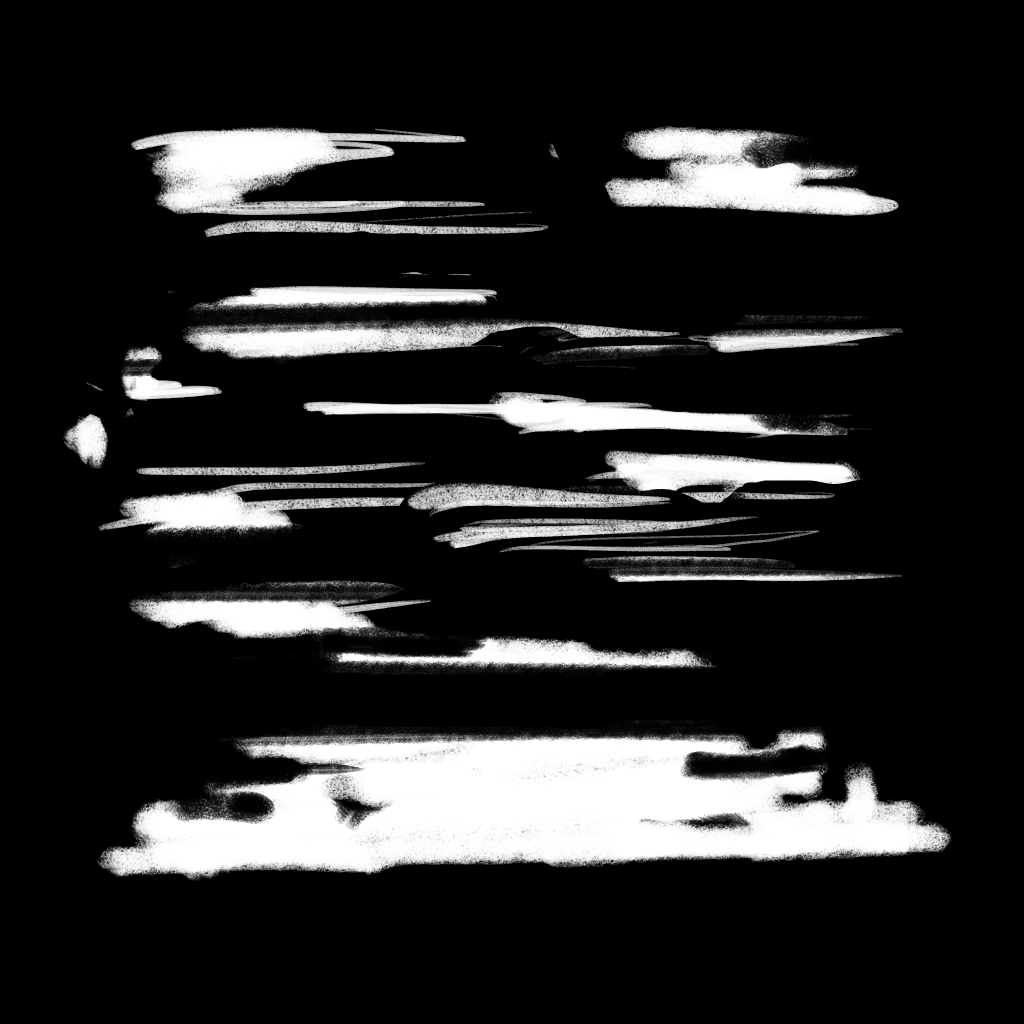
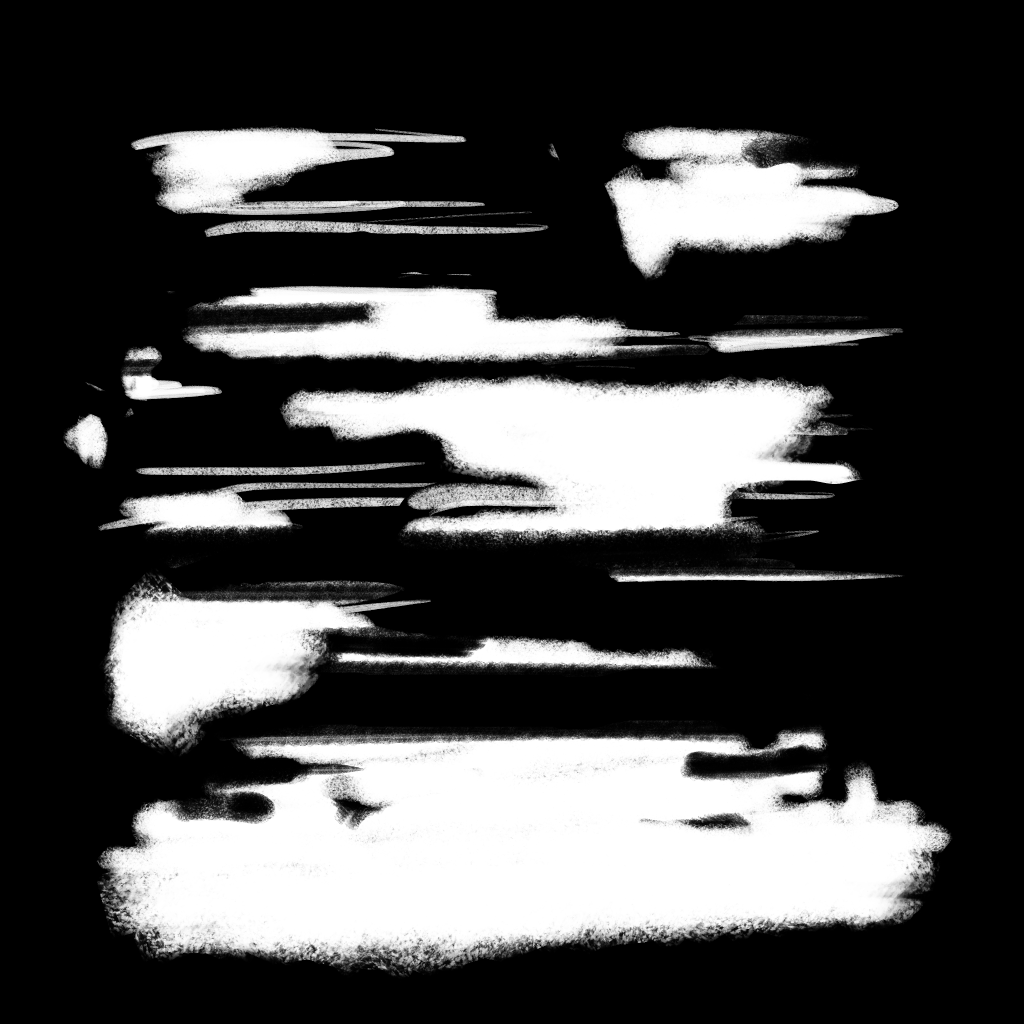
feat: update shader to draw points better

diff --git a/src/brush/shaders.ts b/src/brush/shaders.ts
@@ -76,7 +76,6 @@ precision highp float;
 
 // Brush parameters
 uniform float size;
-uniform float opacity;
 uniform float flow;
 uniform vec3 color;
 uniform float mask_width;
@@ -95,63 +94,31 @@ out vec4 fragColor;
 #include "mixbox.glsl"
 
 void main(void) {
-    float radius = size/2.0;
+    float radius = size*0.5;
     vec2 localUV = v_brushTexCoord;
     
     // calculate alpha mask
     float maskAlpha = texture(mask_texture, localUV).r;
-    if (maskAlpha < 0.01) discard;
-    maskAlpha = flow*maskAlpha;
+    if (maskAlpha < .8) discard;
 
     vec4 layerData = texture(layer_stroke_texture,vec2(gl_FragCoord.xy)/vec2(layer_width,layer_height)).rgba;
     
-    float alphaA = maskAlpha;
-    float alphaB = layerData.a;
+    vec3 colorA = color;
+    vec3 colorB = layerData.rgb;
+    
+    vec3 fullStrengthRGB = vec3(0.0);
+    if (mix_mode == MIXMODE_MIXBOX) {
+        // Use MIXBOX for rich color mixing
+        fullStrengthRGB = mixbox_lerp(colorB, colorA, flow);
+    } else {
+        // Use RGB mixing
+        fullStrengthRGB = mix(colorB, colorA, flow);
+    }
+    
     
     // For the alpha output, still use the normal alpha blending
     float fullOpacityAlpha = mix(layerData.a, 1.0, maskAlpha);
-    
-    // First, calculate the full-strength color using MIXBOX (or RGB) without any opacity limitation
-    mixbox_latent latA = mixbox_rgb_to_latent(color); // Use the original color for rich MIXBOX mixing
-    mixbox_latent latB = mixbox_rgb_to_latent(layerData.rgb);
-    float denom = (alphaA + alphaB * (1.0 - alphaA));
-    vec3 fullStrengthRGB = vec3(0.0);
-    
-    if(denom > 0.0) {
-        if (mix_mode == MIXMODE_MIXBOX) {
-            // Use MIXBOX for rich color mixing
-            fullStrengthRGB = mixbox_latent_to_rgb((latB * alphaB * (1.0 - alphaA) + alphaA * latA) / denom);
-        } else {
-            // Use RGB mixing
-            fullStrengthRGB = (layerData.rgb * alphaB * (1.0 - alphaA) + alphaA * color) / denom;
-        }
-    }
-    
-    // Now apply opacity as a cap by blending between the canvas color and the full-strength color
-    // For darker colors like black, this ensures they can only reach the opacity-defined darkness
-    float whiteValue = 1.0 - opacity; // Minimum lightness value based on opacity
-    
-    // Get the perceived brightness of the mixed color (average of RGB components)
-    float brightness = (fullStrengthRGB.r + fullStrengthRGB.g + fullStrengthRGB.b) / 3.0;
-    
-    // Calculate how much we need to lighten the color to respect the opacity cap
-    float targetBrightness = max(brightness, whiteValue);
-    float lightenAmount = targetBrightness - brightness;
-    
-    // Apply the lightening while preserving the color's hue
-    vec3 cappedRGB;
-    if (lightenAmount > 0.0) {
-        // Lighten the color while preserving its hue
-        cappedRGB = mix(fullStrengthRGB, vec3(1.0), lightenAmount);
-    } else {
-        cappedRGB = fullStrengthRGB;
-    }
-    
-    // For the final result, blend between the original canvas and the capped color
-    vec3 finalRGB = mix(layerData.rgb, cappedRGB, maskAlpha);
-    float finalAlpha = fullOpacityAlpha;
-    
-    fragColor = vec4(finalRGB, finalAlpha);
+    fragColor = vec4(fullStrengthRGB, fullOpacityAlpha);
 }
 `;
 BRUSH_FRAGMENT_SHADER = BRUSH_FRAGMENT_SHADER.replace('#include "mixbox.glsl"', mixbox.glsl());
